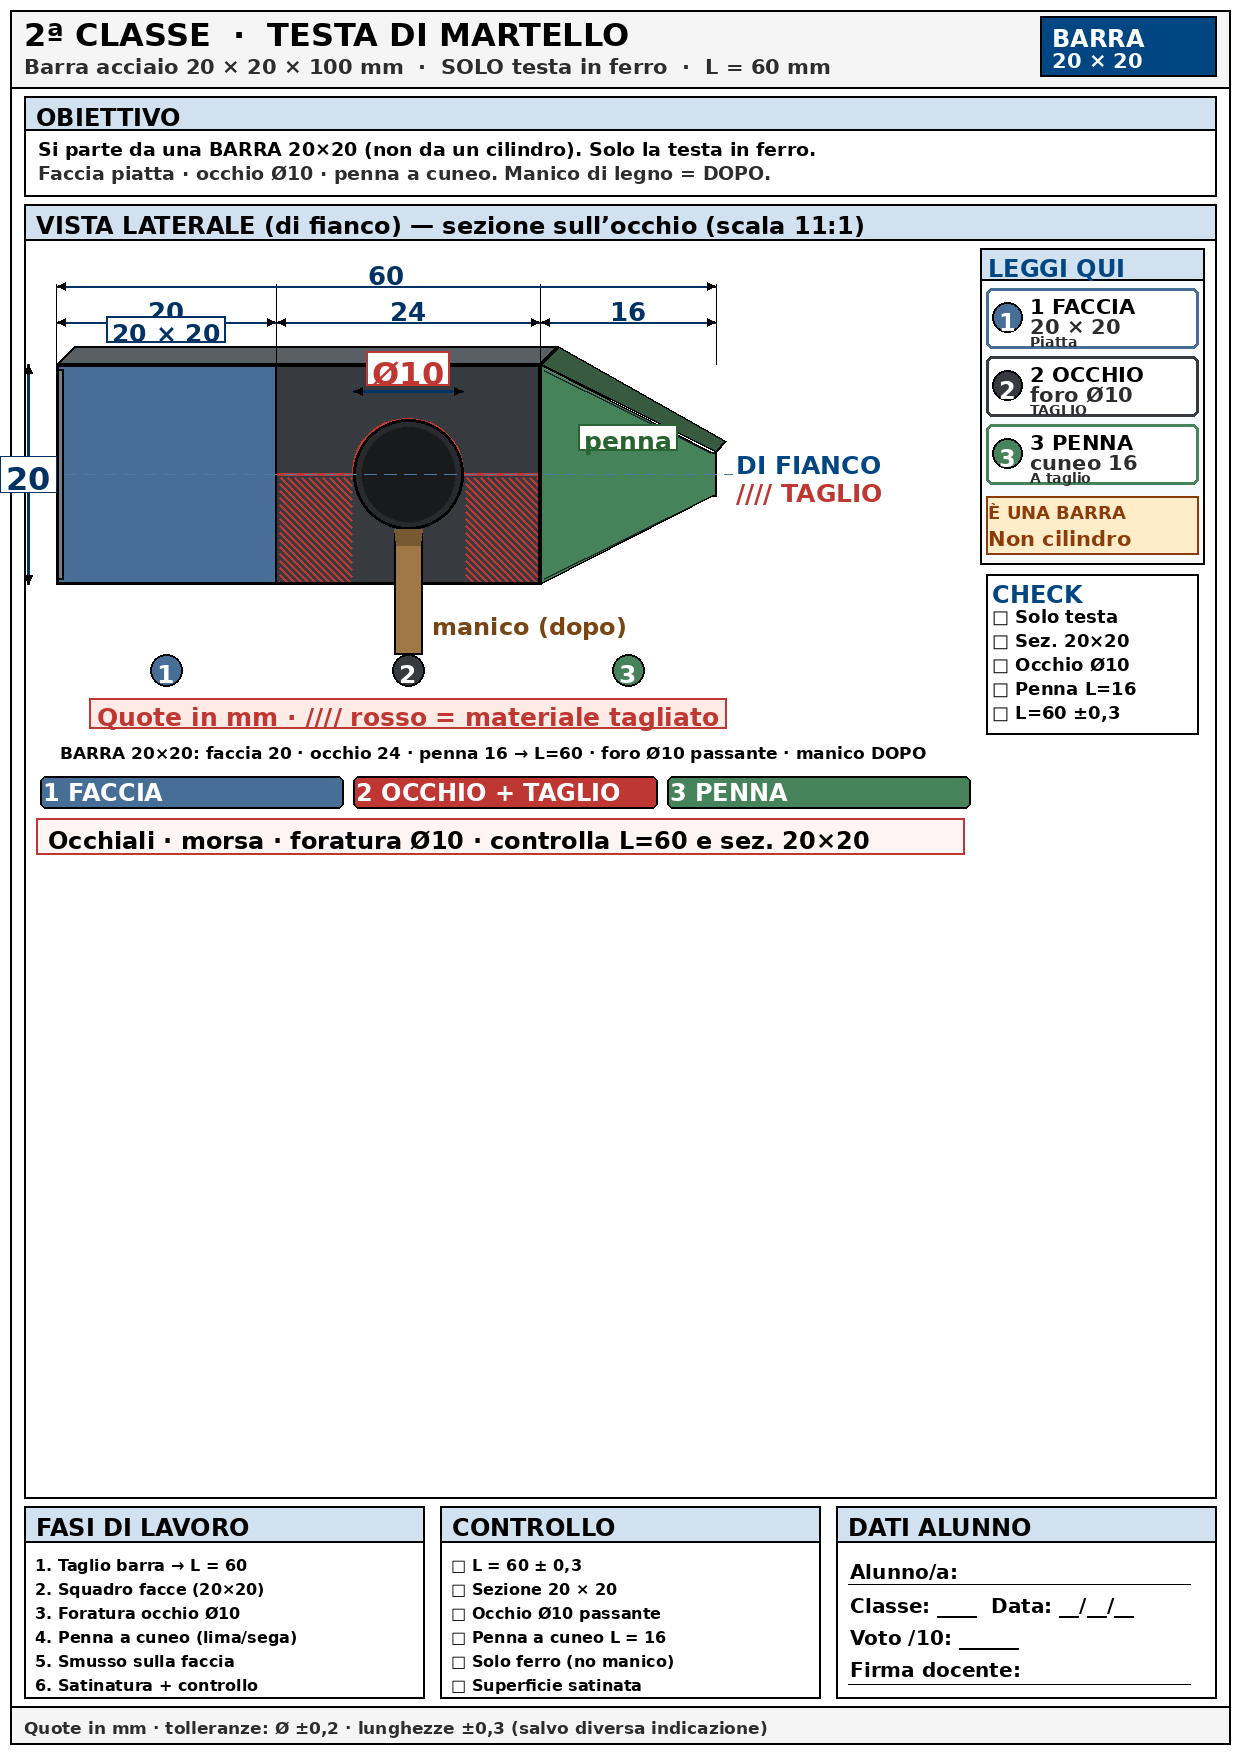
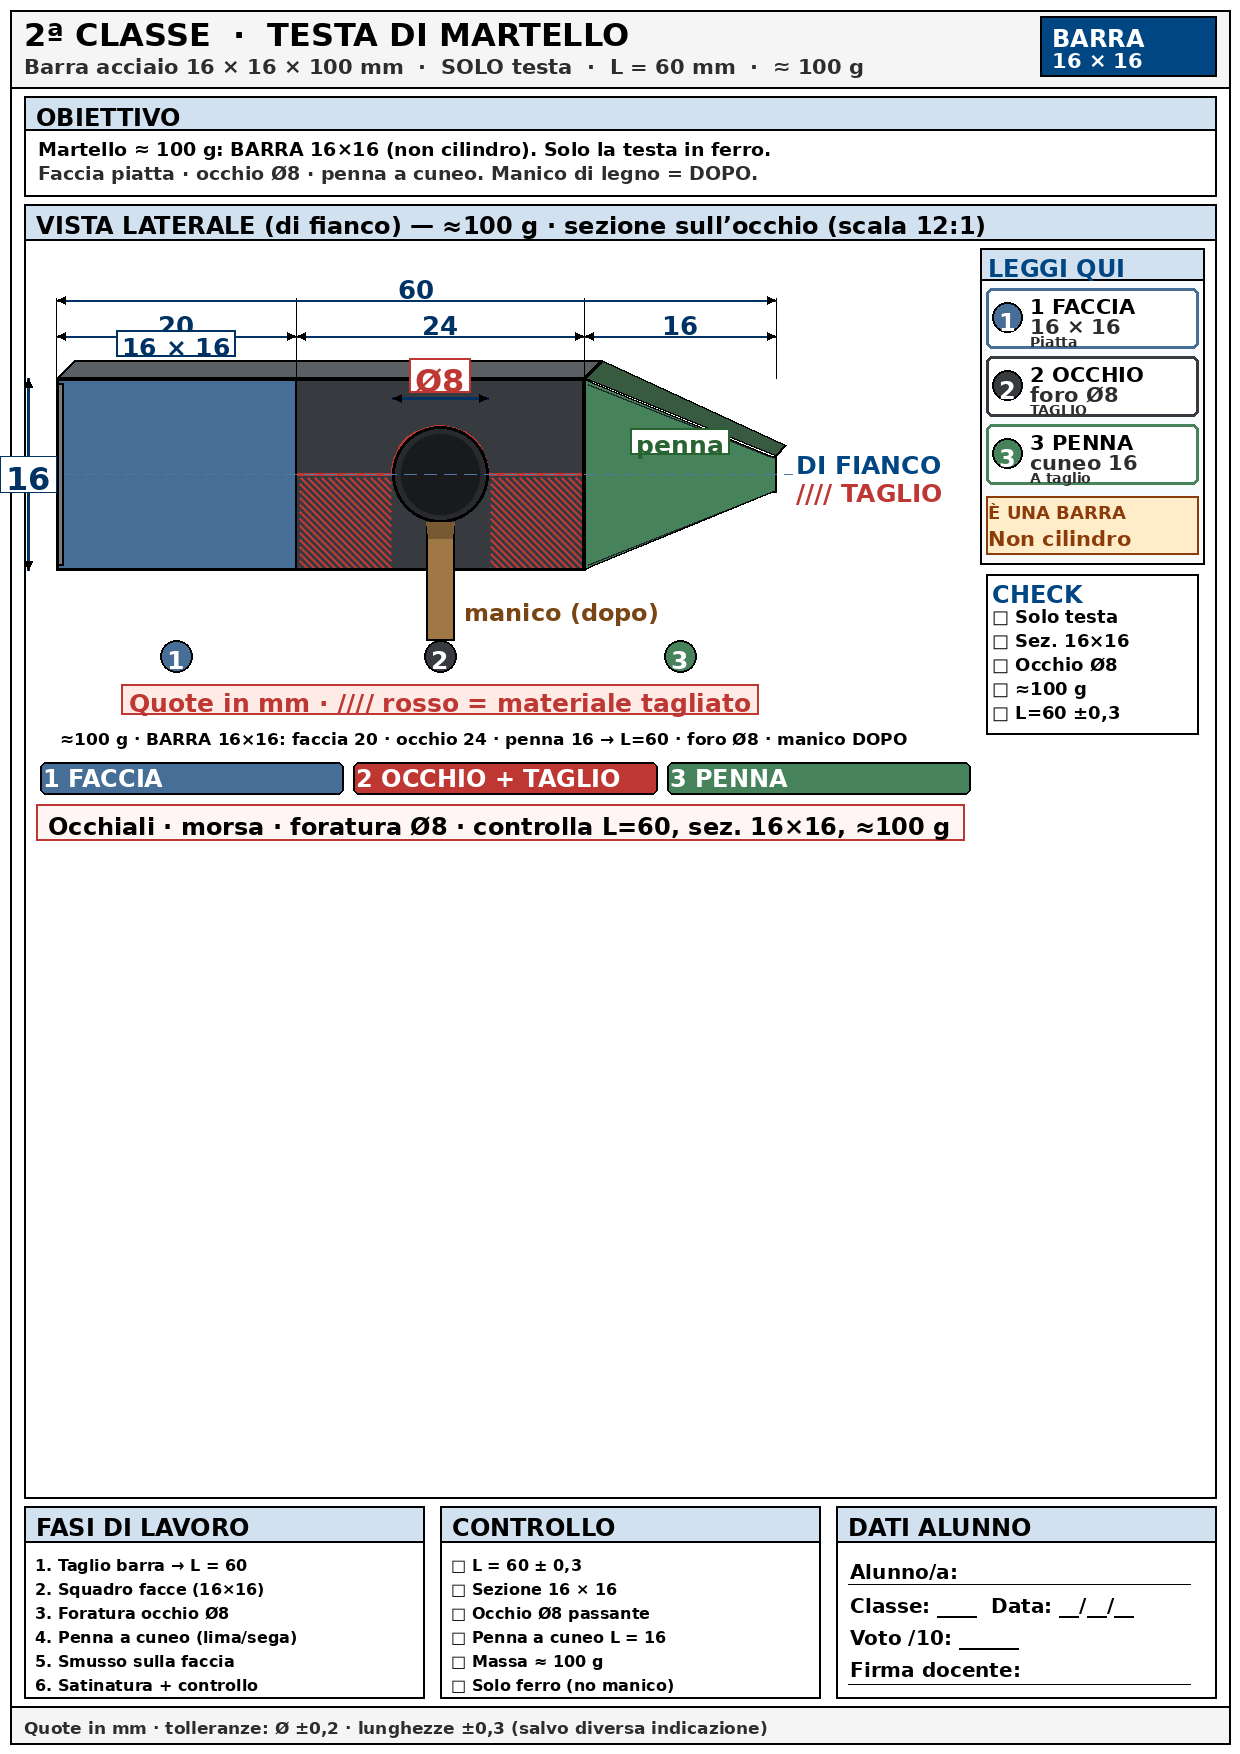
Misure reali testa martello ≈100 g: barra 16×16, occhio Ø8.
L=60 (20+24+16); massa stimata ~100 g.

diff --git a/progetti-ferro-gallery/generate_ferro.py b/progetti-ferro-gallery/generate_ferro.py
@@ -441,49 +441,49 @@ def save(img, name, stampa=None):
 
 # ═══════════════════════════════════════════
 # 2ª TESTA DI MARTELLO — da BARRA (non cilindro)
-# Barra 20×20 · L=60 = 20+24+16 · solo ferro
+# Barra 16×16 · L=60 = 20+24+16 · Ø8 · ≈100 g · solo ferro
 # ═══════════════════════════════════════════
 def make_2a():
     img, d = new_sheet(
         "2ª CLASSE",
         "TESTA DI MARTELLO",
-        "Barra acciaio 20 × 20 × 100 mm  ·  SOLO testa in ferro  ·  L = 60 mm",
+        "Barra acciaio 16 × 16 × 100 mm  ·  SOLO testa  ·  L = 60 mm  ·  ≈ 100 g",
     )
     # badge: BARRA (non cilindro / non solo Ø)
     d.rectangle([W - 200, 16, W - 24, 76], fill=ACCENT, outline=BLACK, width=2)
     d.text((W - 188, 24), "BARRA", fill=WHITE, font=F13)
-    d.text((W - 188, 48), "20 × 20", fill=WHITE, font=F12)
+    d.text((W - 188, 48), "16 × 16", fill=WHITE, font=F12)
 
     draw_top = write_obiettivo(
         d,
         [
-            "Si parte da una BARRA 20×20 (non da un cilindro). Solo la testa in ferro.",
-            ("Faccia piatta · occhio Ø10 · penna a cuneo. Manico di legno = DOPO.", GRAY),
+            "Martello ≈ 100 g: BARRA 16×16 (non cilindro). Solo la testa in ferro.",
+            ("Faccia piatta · occhio Ø8 · penna a cuneo. Manico di legno = DOPO.", GRAY),
         ],
     )
 
     fasi = [
         "1. Taglio barra → L = 60",
-        "2. Squadro facce (20×20)",
-        "3. Foratura occhio Ø10",
+        "2. Squadro facce (16×16)",
+        "3. Foratura occhio Ø8",
         "4. Penna a cuneo (lima/sega)",
         "5. Smusso sulla faccia",
         "6. Satinatura + controllo",
     ]
     ctrl = [
         "□ L = 60 ± 0,3",
-        "□ Sezione 20 × 20",
-        "□ Occhio Ø10 passante",
+        "□ Sezione 16 × 16",
+        "□ Occhio Ø8 passante",
         "□ Penna a cuneo L = 16",
+        "□ Massa ≈ 100 g",
         "□ Solo ferro (no manico)",
-        "□ Superficie satinata",
     ]
     step = 24
     bh = 36 + max(len(fasi), len(ctrl)) * step + 12
     # più spazio al disegno (quote grandi)
     bot = FOOT - bh - 8
     draw_h = bot - draw_top - 8
-    panel(d, 24, draw_top, W - 48, draw_h, "VISTA LATERALE (di fianco) — sezione sull’occhio (scala 11:1)")
+    panel(d, 24, draw_top, W - 48, draw_h, "VISTA LATERALE (di fianco) — ≈100 g · sezione sull’occhio (scala 12:1)")
     panel_bottom = draw_top + draw_h
 
     FACE_C = (70, 110, 150)
@@ -500,8 +500,8 @@ def make_2a():
     d.text((info_x1 + 8, draw_top + 50), "LEGGI QUI", fill=ACCENT, font=F13)
 
     blocks = [
-        (FACE_C, "FACCIA", "20 × 20", "Piatta"),
-        (IRON, "OCCHIO", "foro Ø10", "TAGLIO"),
+        (FACE_C, "FACCIA", "16 × 16", "Piatta"),
+        (IRON, "OCCHIO", "foro Ø8", "TAGLIO"),
         (PEEN_C, "PENNA", "cuneo 16", "A taglio"),
     ]
     for i, (col, title, line1, line2) in enumerate(blocks):
@@ -521,14 +521,16 @@ def make_2a():
     text_in_box(d, info_x1 + 6, draw_top + 320, info_x2 - info_x1 - 20, 26, "Non cilindro", F12, WARN, pad=2)
 
     # ── VISTA LATERALE GRANDE + SEZIONE ──
-    sc = 11.0
+    # Misure reali martello ≈100 g: sezione 16×16, L=60, occhio Ø8
+    sc = 12.0
     mid = draw_top + 270
     ox = 56
-    Lf, Lo, Lp = 20, 24, 16
-    h = 10 * sc                 # metà altezza (20 mm) → 110 px
-    tip_h = 2.0 * sc
+    Lf, Lo, Lp = 20, 24, 16     # lunghezze zone (mm)
+    S = 16                       # sezione barra (mm)
+    h = (S / 2) * sc             # metà altezza 16 mm
+    tip_h = 1.5 * sc
     depth = 18
-    hole_r = 5 * sc             # Ø10 → 55 px
+    hole_r = 4 * sc              # Ø8 → raggio 4 mm
 
     x0 = ox
     x1 = ox + Lf * sc
@@ -596,14 +598,14 @@ def make_2a():
     d.polygon(penna, outline=BLACK, width=2)
     d.ellipse([hx - hole_r, mid - hole_r, hx + hole_r, mid + hole_r], outline=BLACK, width=3)
 
-    # Quota Ø10 — più grande
+    # Quota Ø8 — più grande
     qy = mid - hole_r - 28
     d.line([hx - hole_r, qy, hx + hole_r, qy], fill=DIM_COL, width=3)
     arrow_h(d, hx - hole_r, qy, left=True)
     arrow_h(d, hx + hole_r, qy, left=False)
-    otw = d.textlength("Ø10", font=F22)
+    otw = d.textlength("Ø8", font=F22)
     d.rectangle([hx - otw / 2 - 6, qy - 40, hx + otw / 2 + 6, qy - 6], fill=WHITE, outline=CAP_RED, width=2)
-    d.text((hx - otw / 2, qy - 36), "Ø10", fill=CAP_RED, font=F22)
+    d.text((hx - otw / 2, qy - 36), "Ø8", fill=CAP_RED, font=F22)
 
     # Manico sotto
     stem_w = 14
@@ -631,20 +633,20 @@ def make_2a():
     dim_h(d, x2, end_x, q1, "16")
     dim_h(d, x0, end_x, q0, "60")
 
-    # quota altezza 20 a sinistra
+    # quota altezza 16 a sinistra
     d.line([x0 - 28, mid - h, x0 - 28, mid + h], fill=DIM_COL, width=3)
     arrow_v(d, x0 - 28, mid - h, up=True)
     arrow_v(d, x0 - 28, mid + h, up=False)
-    tw20 = d.textlength("20", font=F22)
-    d.rectangle([x0 - 28 - tw20 / 2 - 6, mid - 18, x0 - 28 + tw20 / 2 + 6, mid + 18], fill=WHITE, outline=DIM_COL, width=1)
-    d.text((x0 - 28 - tw20 / 2, mid - 14), "20", fill=DIM_COL, font=F22)
+    tw16 = d.textlength("16", font=F22)
+    d.rectangle([x0 - 28 - tw16 / 2 - 6, mid - 18, x0 - 28 + tw16 / 2 + 6, mid + 18], fill=WHITE, outline=DIM_COL, width=1)
+    d.text((x0 - 28 - tw16 / 2, mid - 14), "16", fill=DIM_COL, font=F22)
 
     def lab_box(cx, yy, text, col):
         tw = d.textlength(text, font=F14)
         d.rectangle([cx - tw / 2 - 6, yy - 2, cx + tw / 2 + 6, yy + 24], fill=WHITE, outline=col, width=2)
         d.text((cx - tw / 2, yy), text, fill=col, font=F14)
 
-    lab_box((x0 + x1) / 2, mid - h - depth - 28, "20 × 20", DIM_COL)
+    lab_box((x0 + x1) / 2, mid - h - depth - 28, "16 × 16", DIM_COL)
     lab_box(peen_mid, mid - tip_h - depth - 8, "penna", (40, 100, 50))
 
     def badge(cx, cy, n, bg):
@@ -668,7 +670,7 @@ def make_2a():
     note_y = fy + 40
     text_in_box(
         d, ox, note_y, info_x1 - ox - 20, 28,
-        "BARRA 20×20: faccia 20 · occhio 24 · penna 16 → L=60 · foro Ø10 passante · manico DOPO",
+        "≈100 g · BARRA 16×16: faccia 20 · occhio 24 · penna 16 → L=60 · foro Ø8 · manico DOPO",
         F14, BLACK, pad=4,
     )
 
@@ -687,10 +689,10 @@ def make_2a():
 
     tip_y = tag_y + 42
     d.rectangle([36, tip_y, info_x1 - 16, tip_y + 36], fill=(255, 245, 245), outline=CAP_RED, width=2)
-    d.text((48, tip_y + 8), "Occhiali · morsa · foratura Ø10 · controlla L=60 e sez. 20×20", fill=BLACK, font=F13)
+    d.text((48, tip_y + 8), "Occhiali · morsa · foratura Ø8 · controlla L=60, sez. 16×16, ≈100 g", fill=BLACK, font=F13)
 
     right_y = draw_top + 370
-    checks = ["□ Solo testa", "□ Sez. 20×20", "□ Occhio Ø10", "□ Penna L=16", "□ L=60 ±0,3"]
+    checks = ["□ Solo testa", "□ Sez. 16×16", "□ Occhio Ø8", "□ ≈100 g", "□ L=60 ±0,3"]
     rh = 32 + len(checks) * 24 + 8
     d.rectangle([info_x1 + 6, right_y, info_x2 - 6, right_y + rh], fill=WHITE, outline=BLACK, width=2)
     d.text((info_x1 + 12, right_y + 6), "CHECK", fill=ACCENT, font=F13)
